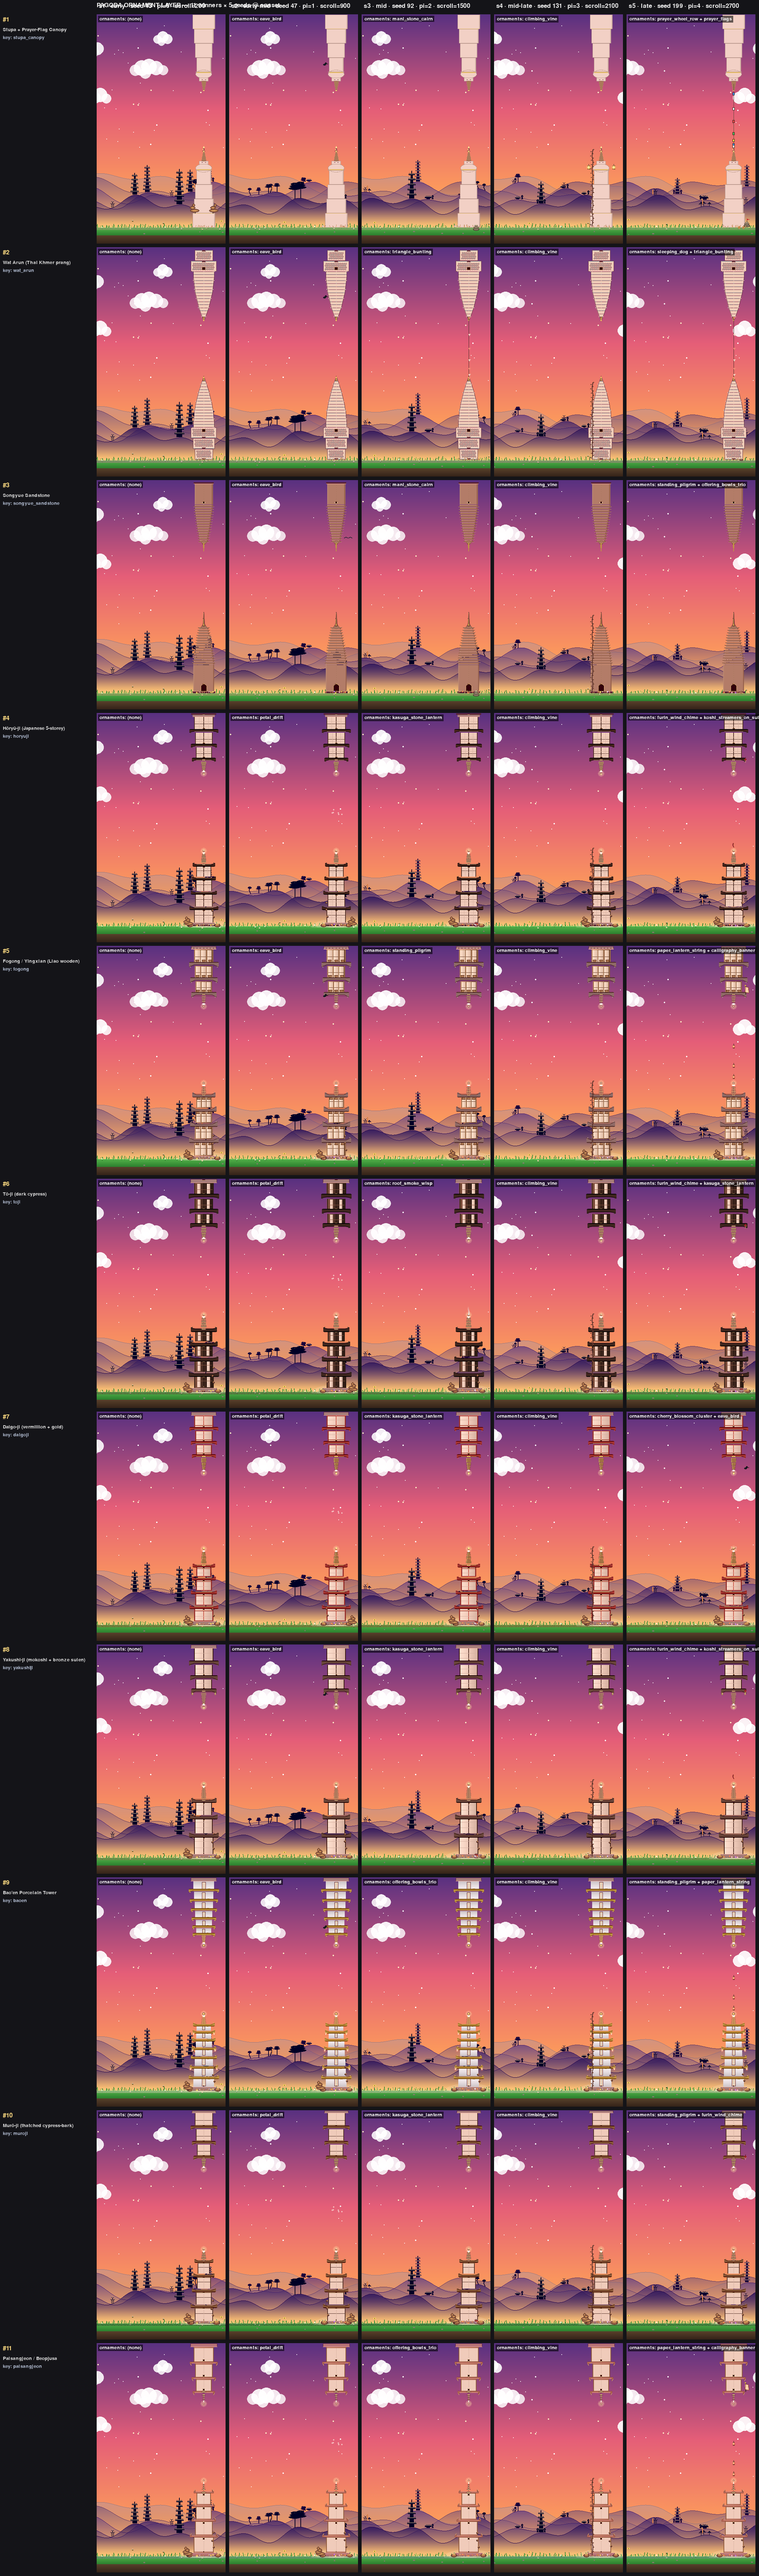
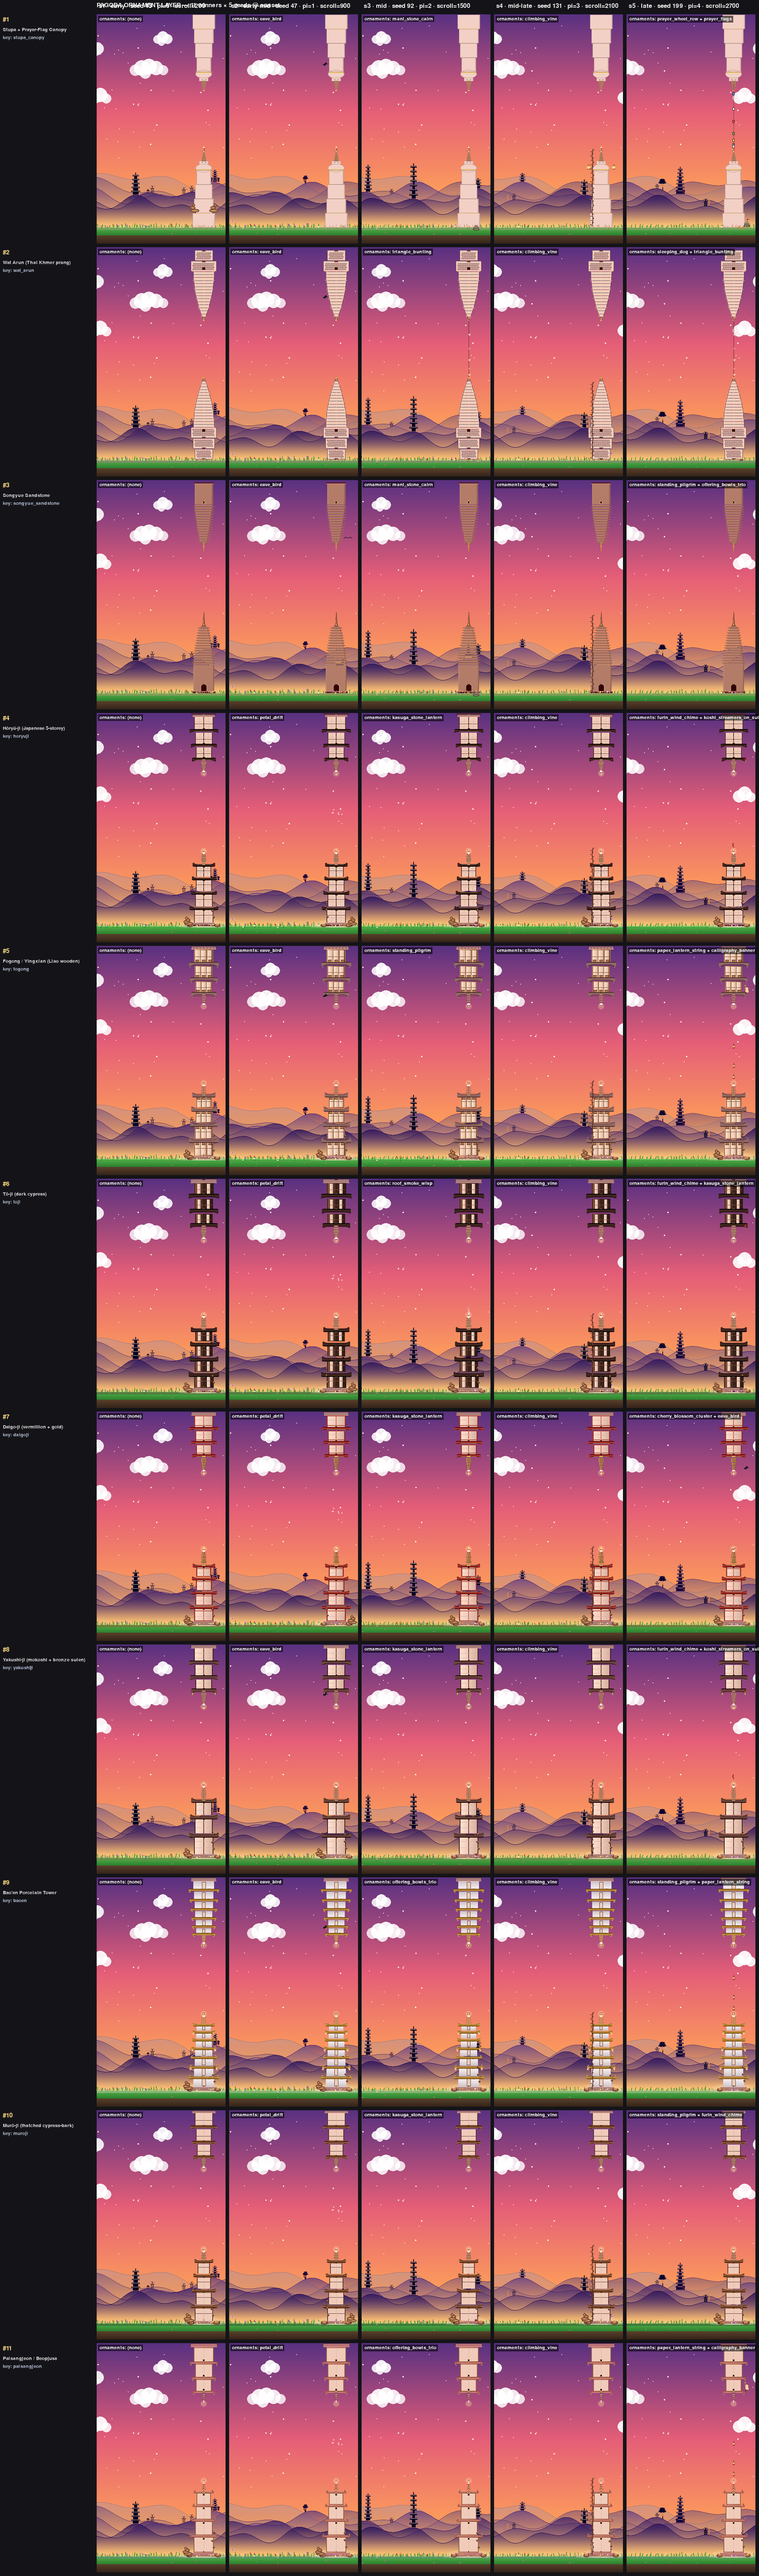
V14 round 19: another density cut (single section on far band, leaner flavour clusters)
User feedback on round 18: looks great but wonder if even less per
frame would land better.

Six dials turned further in scatter_pagoda. All other round-18
mechanics (per-region style evolution, world-x stable seeding,
per-column scroll in the harness) stay locked.

- n_sections far  : rng.randint(1,2) -> 1
- n_sections mid/near : rng.randint(2,3) -> rng.randint(1,2)
- 'grove' tree count : rng.randint(2,3) -> rng.randint(1,2)
- 'grove' banner chance : 0.45 -> 0.30
- 'shrine' extra tree chance : 0.55 -> 0.30
- 'mixed' extra tree chance : 0.55 -> 0.30
- 'pagoda' flanking-lantern chance : 0.40 -> 0.25

Rough per-frame element count now ~3-6 across all 3 bands (down from
~9-25 in round 17 and ~4-10 in round 18). The shan-shui ridge reads
as peaceful — a single pagoda or grove tucked into each visible
ridgeline section, with empty silhouette breathing room between.

Pillar candidates, ornament module, _V14_REGION_STYLES table, and
the live game's draw_mountains() path all unchanged.

diff --git a/archive/mountain_redesign/mountain_variants_alive.py b/archive/mountain_redesign/mountain_variants_alive.py
@@ -881,9 +881,9 @@ def draw_mountains_v14(surf, scroll, ground_y, w, far_color=None, near_color=Non
         rng = random.Random(_seed_for(scroll, layer_seed))
         # Far band runs sparser than mid/near so the horizon stays calm.
         if layer_idx == 2:
-            n_sections = rng.randint(1, 2)
+            n_sections = 1
         else:
-            n_sections = rng.randint(2, 3)
+            n_sections = rng.randint(1, 2)
         cuts = sorted(rng.sample(range(40, w - 40), n_sections - 1))
         bounds = [0] + cuts + [w]
         peaks = _local_peaks(heights, look=18)
@@ -927,13 +927,13 @@ def draw_mountains_v14(surf, scroll, ground_y, w, far_color=None, near_color=Non
                 lo_s, hi_s = pag_scale_range
                 sc = rng.uniform(lo_s, hi_s) * elem_region['pag_scale_mul']
                 _pagoda(surf, cx, cy - 1, tiers, bw, base_color, accent, sc)
-                if rng.random() < 0.40:
+                if rng.random() < 0.25:
                     _stone_lantern(surf, cx - 10, cy - 1, base_color, accent)
                     _stone_lantern(surf, cx + 10, cy - 1, base_color, accent)
             elif flavour == 'grove' and section_peaks:
                 idx = rng.choice(section_peaks)
                 cx, cy = heights[idx]
-                count = rng.randint(2, 3)
+                count = rng.randint(1, 2)
                 for _ in range(count):
                     tx = cx + rng.randint(-22, 22)
                     if not (lo <= tx <= hi):
@@ -942,7 +942,7 @@ def draw_mountains_v14(surf, scroll, ground_y, w, far_color=None, near_color=Non
                     elem_region = _v14_region(scroll + tx)
                     kind = _v14_weighted(rng, elem_region['tree_weights'])
                     _draw_tree(kind, tx, ty)
-                if allow_banner and rng.random() < 0.45:
+                if allow_banner and rng.random() < 0.30:
                     bx = cx + rng.randint(-18, 18)
                     by = heights[min(bx, len(heights) - 1)][1]
                     _hanging_banner(surf, bx, by - 18,
@@ -955,7 +955,7 @@ def draw_mountains_v14(surf, scroll, ground_y, w, far_color=None, near_color=Non
                 _pavilion(surf, cx, cy - 1, base_color, accent, scale=pscale)
                 _stone_lantern(surf, cx + rng.choice((-12, 12)), cy - 1,
                                base_color, accent)
-                if rng.random() < 0.55:
+                if rng.random() < 0.30:
                     tx = cx + rng.randint(-26, 26)
                     if lo <= tx <= hi:
                         ty = heights[min(tx, len(heights) - 1)][1]
@@ -972,7 +972,7 @@ def draw_mountains_v14(surf, scroll, ground_y, w, far_color=None, near_color=Non
                     sc = rng.uniform(lo_s, hi_s) * elem_region['pag_scale_mul']
                     _pagoda(surf, cx, cy - 1, tiers, rng.randint(9, 13),
                             base_color, accent, scale=sc)
-                if rng.random() < 0.55 and hi - lo >= 20:
+                if rng.random() < 0.30 and hi - lo >= 20:
                     tx = rng.randint(lo + 6, hi - 6)
                     ty = heights[min(tx, len(heights) - 1)][1]
                     elem_region = _v14_region(scroll + tx)
